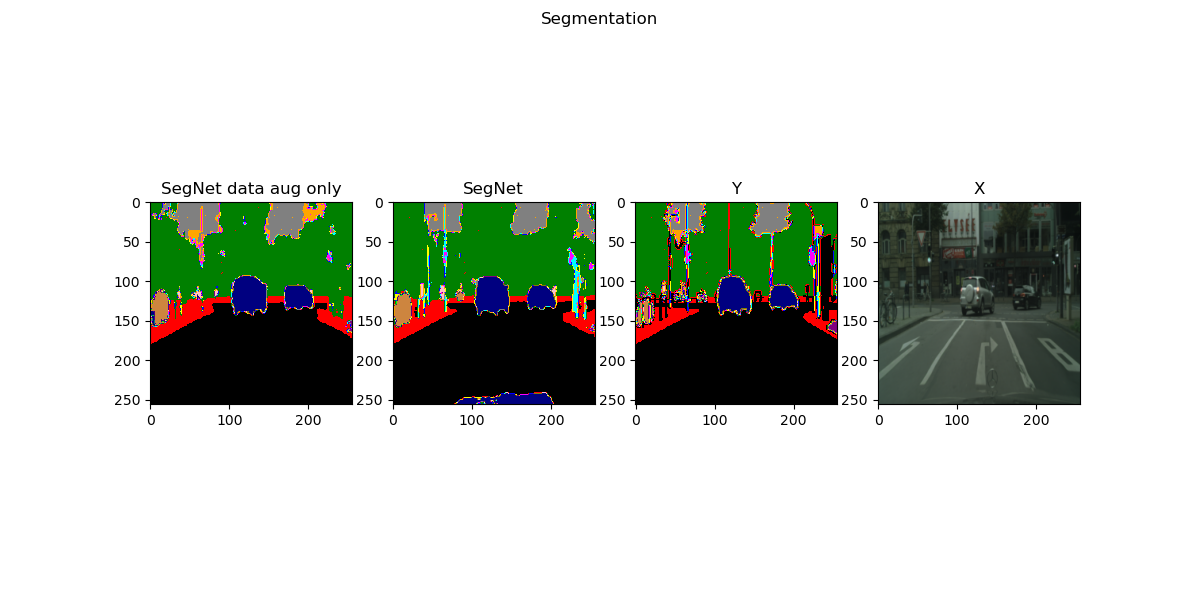
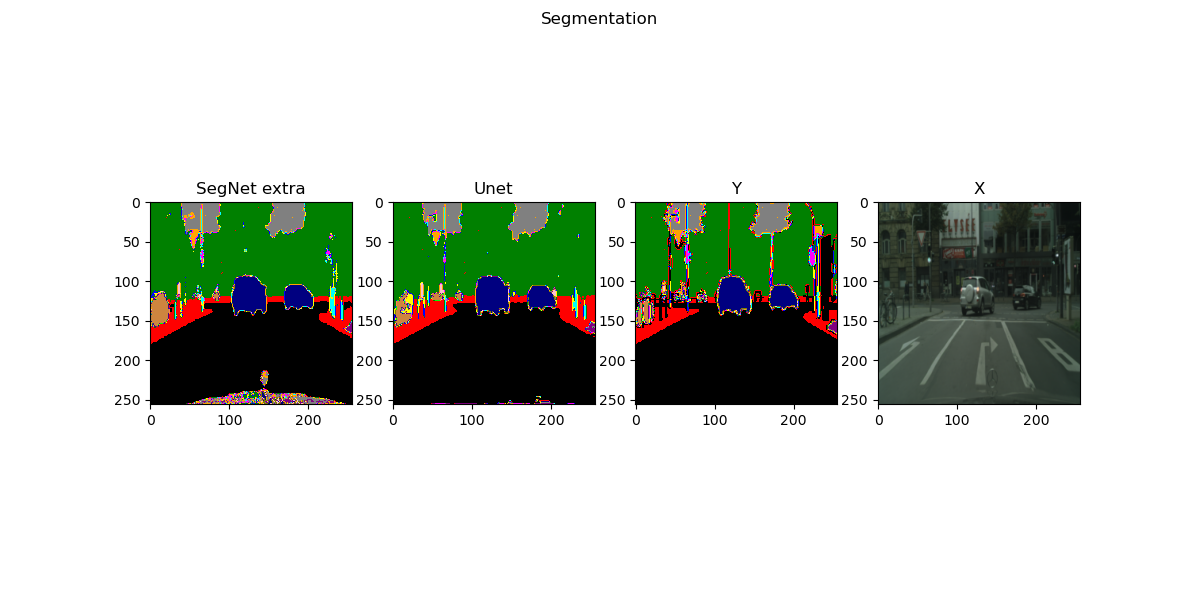
new model

diff --git a/model.py b/model.py
@@ -156,7 +156,7 @@ class SegNet(nn.Module):
         self.norm_enc_5b = nn.BatchNorm2d(512, momentum=0.5)
         self.norm_enc_5c = nn.BatchNorm2d(512, momentum=0.5) 
 
-        # Encode stage 5
+        # Encode latent
         self.lat_a = nn.Conv2d(512, 1024, kernel_size=3, padding=1)
         self.lat_b = nn.Conv2d(1024, 1024, kernel_size=3, padding=1)
         self.lat_c = nn.Conv2d(1024, 512, kernel_size=3, padding=1)
@@ -164,7 +164,8 @@ class SegNet(nn.Module):
         self.norm_lat_b = nn.BatchNorm2d(1024, momentum=0.5)
         self.norm_lat_c = nn.BatchNorm2d(512, momentum=0.5) 
 
-        # Decode stage 5    
+        # Decode stage 5
+        self.up_5 = nn.ConvTranspose2d(512, 512, kernel_size=2, stride=2, padding=0)    
         self.dec_5a = nn.Conv2d(2*512, 512, kernel_size=3, padding=1)
         self.dec_5b = nn.Conv2d(512, 512, kernel_size=3, padding=1)
         self.dec_5c = nn.Conv2d(512, 512, kernel_size=3, padding=1)
@@ -173,6 +174,7 @@ class SegNet(nn.Module):
         self.norm_dec_5c = nn.BatchNorm2d(512, momentum=0.5) 
 
         # Decode stage 4    
+        self.up_4 = nn.ConvTranspose2d(512, 512, kernel_size=2, stride=2, padding=0) 
         self.dec_4a = nn.Conv2d(2*512, 512, kernel_size=3, padding=1)
         self.dec_4b = nn.Conv2d(512, 512, kernel_size=3, padding=1)
         self.dec_4c = nn.Conv2d(512, 256, kernel_size=3, padding=1)
@@ -181,6 +183,7 @@ class SegNet(nn.Module):
         self.norm_dec_4c = nn.BatchNorm2d(256, momentum=0.5)
 
         # Decode stage 3    
+        self.up_3 = nn.ConvTranspose2d(256, 256, kernel_size=2, stride=2, padding=0) 
         self.dec_3a = nn.Conv2d(2*256, 256, kernel_size=3, padding=1)
         self.dec_3b = nn.Conv2d(256, 256, kernel_size=3, padding=1)
         self.dec_3c = nn.Conv2d(256, 128, kernel_size=3, padding=1)
@@ -188,13 +191,15 @@ class SegNet(nn.Module):
         self.norm_dec_3b = nn.BatchNorm2d(256, momentum=0.5)
         self.norm_dec_3c = nn.BatchNorm2d(128, momentum=0.5)
 
-        # Decode stage 2    
+        # Decode stage 2  
+        self.up_2 = nn.ConvTranspose2d(128, 128, kernel_size=2, stride=2, padding=0)   
         self.dec_2a = nn.Conv2d(2*128, 128, kernel_size=3, padding=1)
         self.dec_2b = nn.Conv2d(128, 64, kernel_size=3, padding=1)
         self.norm_dec_2a = nn.BatchNorm2d(128, momentum=0.5)
         self.norm_dec_2b = nn.BatchNorm2d(64, momentum=0.5)
 
-        # Decode stage 1    
+        # Decode stage 1  
+        self.up_1 = nn.ConvTranspose2d(64, 64, kernel_size=2, stride=2, padding=0)   
         self.dec_1a = nn.Conv2d(2*64, 64, kernel_size=3, padding=1)
         self.dec_1b = nn.Conv2d(64, 19, kernel_size=1, padding=0)
         self.norm_dec_1 = nn.BatchNorm2d(64, momentum=0.5)     
@@ -238,34 +243,39 @@ class SegNet(nn.Module):
         x = function.relu(self.norm_lat_c(self.lat_c(x)))
 
         # Decode Stage 5
-        x = self.unpool(x, ind5, output_size=size4)
+        #x = self.unpool(x, ind5, output_size=size4)
+        x = self.up_5(x)
         x = torch.cat([x, x5], axis=1)
         x = function.relu(self.norm_dec_5a(self.dec_5a(x)))
         x = function.relu(self.norm_dec_5b(self.dec_5b(x)))
         x = function.relu(self.norm_dec_5c(self.dec_5c(x)))
 
         # Decode Stage 4
-        x = self.unpool(x, ind4, output_size=size3)
+        #x = self.unpool(x, ind4, output_size=size3)
+        x = self.up_4(x)
         x = torch.cat([x, x4], axis=1)
         x = function.relu(self.norm_dec_4a(self.dec_4a(x)))
         x = function.relu(self.norm_dec_4b(self.dec_4b(x)))
         x = function.relu(self.norm_dec_4c(self.dec_4c(x)))
 
         # Decode Stage 3
-        x = self.unpool(x, ind3, output_size=size2)
+        #x = self.unpool(x, ind3, output_size=size2)
+        x = self.up_3(x)
         x = torch.cat([x, x3], axis=1)
         x = function.relu(self.norm_dec_3a(self.dec_3a(x)))
         x = function.relu(self.norm_dec_3b(self.dec_3b(x)))
         x = function.relu(self.norm_dec_3c(self.dec_3c(x)))
 
         # Decode Stage 2
-        x = self.unpool(x, ind2, output_size=size1)
+        #x = self.unpool(x, ind2, output_size=size1)
+        x = self.up_2(x)
         x = torch.cat([x, x2], axis=1)
         x = function.relu(self.norm_dec_2a(self.dec_2a(x)))
         x = function.relu(self.norm_dec_2b(self.dec_2b(x)))
 
         # Decode Stage 1
-        x = self.unpool(x, ind1)
+        #x = self.unpool(x, ind1)
+        x = self.up_1(x)
         x = torch.cat([x, x1], axis=1)
         x = function.relu(self.norm_dec_1(self.dec_1a(x)))
         x = self.dec_1b(x)

diff --git a/train.py b/train.py
@@ -141,7 +141,7 @@ def main(args):
         print("Average validation loss of epoch " + str(i+1) + ": " + str(float(val_loss_epoch/len(val_loader))))
 
     # save model
-    torch.save(model.state_dict(), 'SegNet extra')
+    torch.save(model.state_dict(), 'SegNet meets Unet')
 
     # visualize training data
     plt.plot(range(1, epochs+1), train_loss, color='r', label='train loss')
@@ -150,7 +150,7 @@ def main(args):
     plt.ylabel("Loss")
     plt.title("Loss of neural network")
     plt.legend()
-    plt.savefig('Train performance of SegNet model')
+    plt.savefig('Train performance of SegNet meets Unet model')
 
     pass
 
@@ -186,11 +186,11 @@ def preprocess(img):
 
 def visualize():
     model_SegNet = SegNet()
-    model_SegNet.load_state_dict(torch.load("models\\SegNet model data aug only"))
+    model_SegNet.load_state_dict(torch.load("models\\SegNet extra"))
     model_SegNet.eval()
 
-    model_Unet = SegNet()
-    model_Unet.load_state_dict(torch.load("models\\SegNet model"))
+    model_Unet = Unet()
+    model_Unet.load_state_dict(torch.load("models\\Unet"))
     model_Unet.eval()
 
     mean = [0.485, 0.456, 0.406]
@@ -241,9 +241,9 @@ def visualize():
 
         fig, axs = plt.subplots(1, 4, figsize=(12, 6))  # 1 row, 2 columns
         axs[0].imshow(processed_SegNet, cmap=custom_cmap, norm=norm)
-        axs[0].set_title('SegNet data aug only')
+        axs[0].set_title('SegNet extra')
         axs[1].imshow(processed_Unet, cmap=custom_cmap, norm=norm)
-        axs[1].set_title('SegNet')
+        axs[1].set_title('Unet')
         axs[2].imshow(Y, cmap=custom_cmap, norm=norm)
         axs[2].set_title('Y')
         axs[3].imshow(X)
